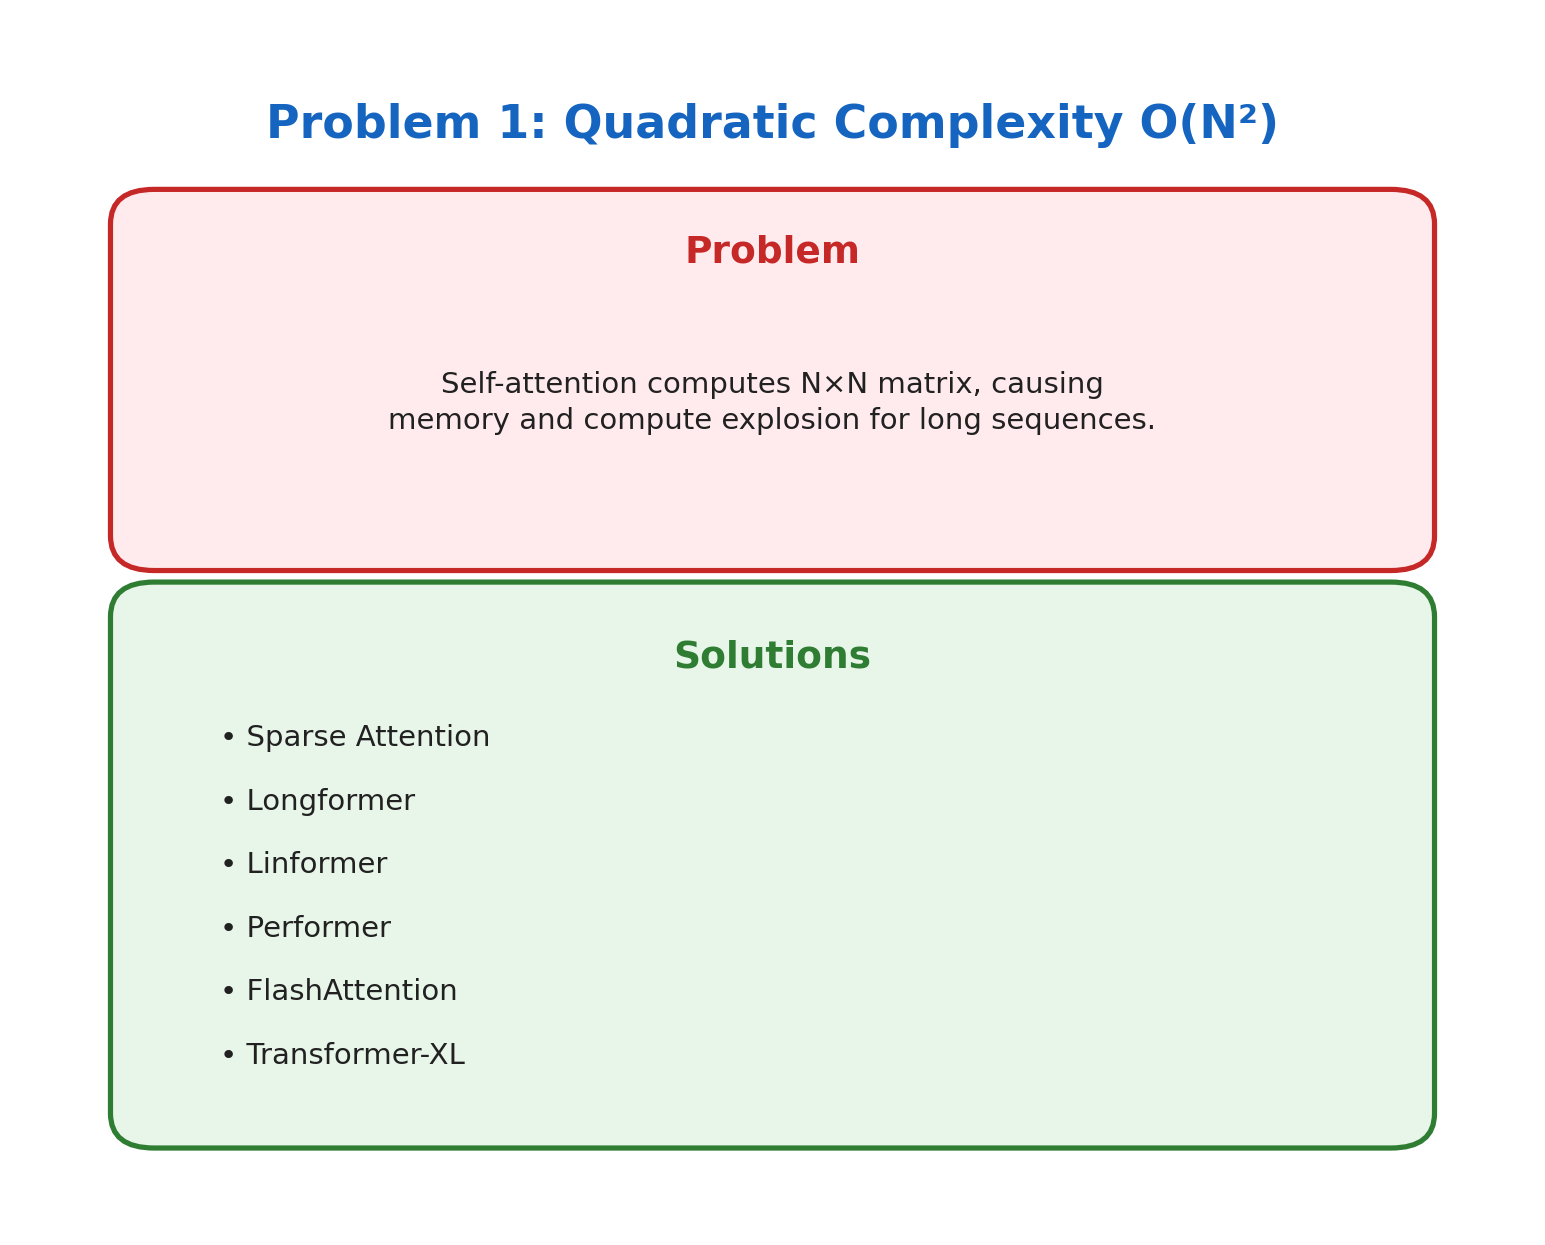
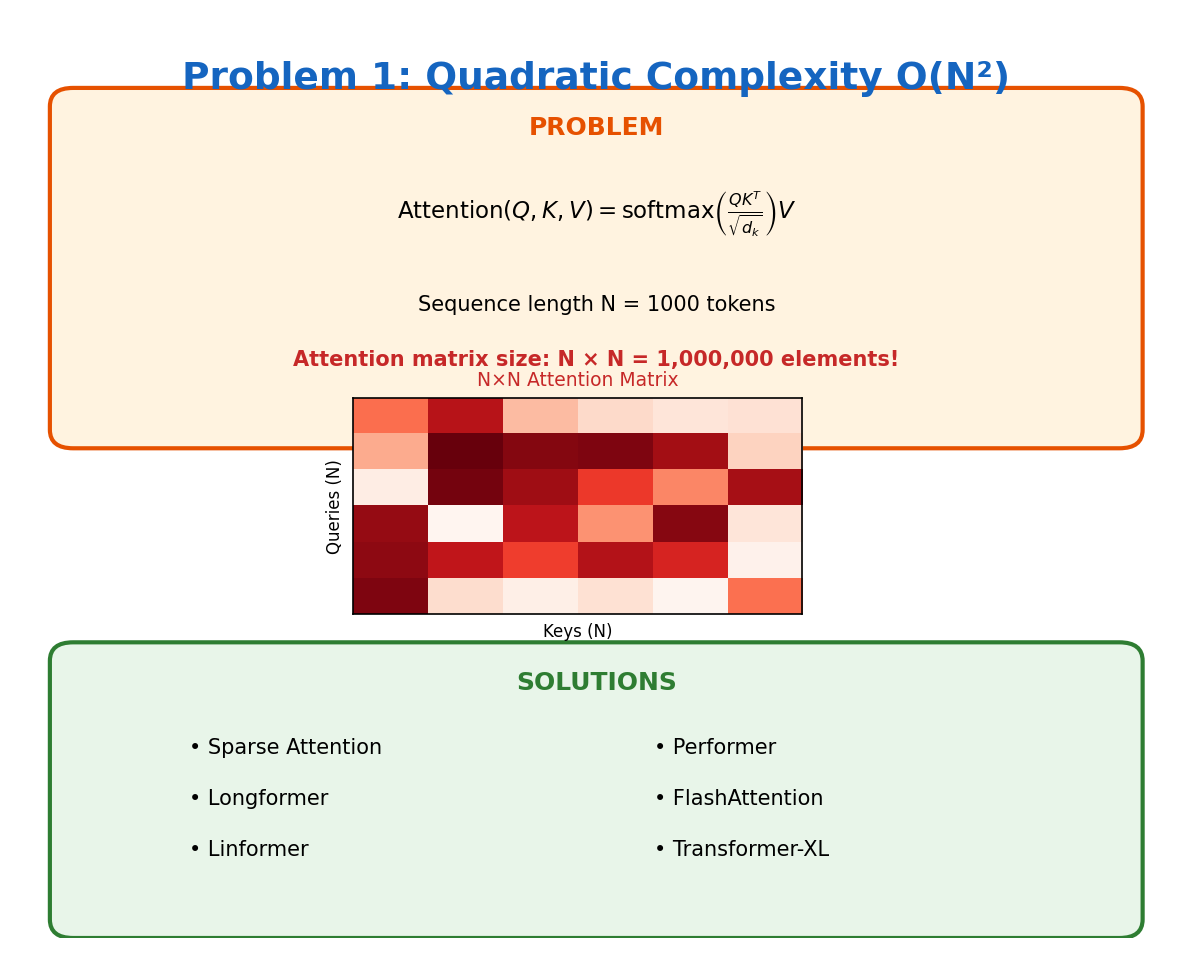
Update Problem 01: Quadratic Complexity - human-readable README with navigation

diff --git a/01_quadratic_complexity/README.md b/01_quadratic_complexity/README.md
@@ -1,26 +1,49 @@
 # Problem 1: Quadratic Complexity O(N²)
 
-## Problem
+[← Back to Main](../README.md) | [Next: Positional Awareness →](../02_positional_awareness/README.md)
 
-Self-attention computes an N×N matrix, causing memory and compute explosion for long sequences.
+---
 
-The self-attention mechanism requires computing attention scores between every pair of tokens in a sequence. For a sequence of length N, this results in O(N²) time and space complexity, making it impractical for very long sequences.
+![Problem 1](./problem.png)
 
-## Solutions
+## What's the Problem?
 
-| Solution | Description |
-|----------|-------------|
-| **Sparse Attention** | Only compute attention for a subset of token pairs using fixed or learned patterns |
-| **Longformer** | Combines local sliding window attention with global attention for selected tokens |
-| **Linformer** | Projects keys and values to lower dimensions, reducing complexity to O(N) |
-| **Performer** | Uses random feature approximation (FAVOR+) for linear attention |
-| **FlashAttention** | IO-aware exact attention algorithm that reduces memory reads/writes |
-| **Transformer-XL** | Segment-level recurrence with relative positional encodings |
+Here's the deal with transformers: every token needs to "look at" every other token. If you have a sentence with 1000 words, that's 1000 × 1000 = 1 million attention calculations. Double your sequence length? You've just quadrupled your compute.
 
-## References
+The math is simple but brutal:
+- 1K tokens → 1M operations
+- 10K tokens → 100M operations  
+- 100K tokens → 10B operations
 
-- [Attention Is All You Need](https://arxiv.org/abs/1706.03762) - Original Transformer paper
-- [Longformer](https://arxiv.org/abs/2004.05150) - Long Document Transformer
-- [Linformer](https://arxiv.org/abs/2006.04768) - Self-Attention with Linear Complexity
-- [FlashAttention](https://arxiv.org/abs/2205.14135) - Fast and Memory-Efficient Exact Attention
+This is why early models like GPT-2 were stuck at 1024 tokens. It's not that researchers didn't want longer contexts — the math just didn't work.
 
+## Why Does This Happen?
+
+The self-attention formula looks innocent enough:
+
+```
+Attention(Q, K, V) = softmax(QK^T / √d_k) V
+```
+
+But that `QK^T` part? That's where you're multiplying a (N × d) matrix by a (d × N) matrix, giving you an (N × N) attention matrix. Every. Single. Layer.
+
+## How Do We Fix It?
+
+| Approach | The Idea |
+|----------|----------|
+| **Sparse Attention** | Don't compute all N² pairs — use patterns (local windows, strided, etc.) |
+| **Longformer** | Sliding window + global tokens for important positions |
+| **Linformer** | Project K and V to lower dimensions first |
+| **Performer** | Approximate softmax with random features (FAVOR+) |
+| **FlashAttention** | Same math, but way smarter memory access patterns |
+| **Transformer-XL** | Process in segments, reuse previous computations |
+
+## Learn More
+
+- [Attention Is All You Need](https://arxiv.org/abs/1706.03762) — The original paper
+- [Longformer](https://arxiv.org/abs/2004.05150) — Efficient attention for long documents
+- [FlashAttention](https://arxiv.org/abs/2205.14135) — The IO-aware approach everyone uses now
+
+---
+
+[← Back to Main](../README.md) | [Next: Positional Awareness →](../02_positional_awareness/README.md)
